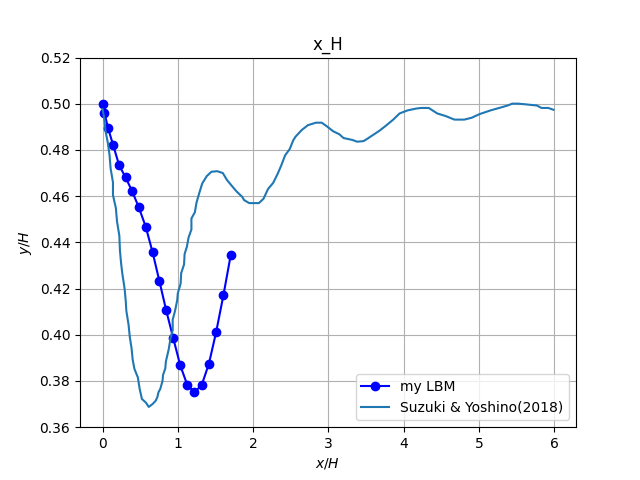
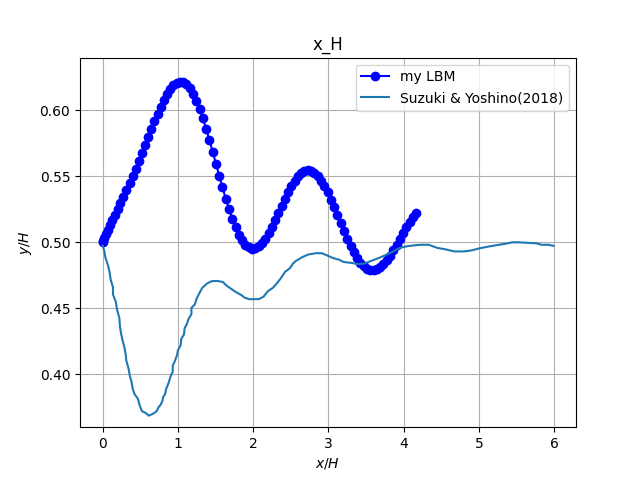
2025/09/08　一旦コミットプッシュ

diff --git a/all.hpp b/all.hpp
@@ -108,10 +108,10 @@ __global__ void SPM(Typ *items, Typ Radius, Typ *posB, Typ *f, Typ *ftmp, Typ *t
 template<typename Typ>
 __global__ void SPM_ellipse(Typ *items, Typ Rada, Typ Radb, Typ *quaS, Typ *posB, Typ *f, Typ *tau, Typ *posx, Typ *posy, Typ *posz, Typ *velx, Typ *vely, Typ *velz, Typ *velB, Typ *angleVB) ;
 template<typename Typ>
-__global__ void get_IBMGw2(Typ *items, int *lattice_id, int *neib, Typ *f, Typ *tau, Typ *posx, Typ *posy, Typ *posz, Typ *posw, Typ *posB, Typ *nBvec, Typ *velx, Typ *vely, Typ *velz, Typ *velw, Typ *Fx, Typ *Fy, Typ *Fz, Typ *Gw) ;
+__global__ void get_IBMGw2(Typ *items, int *lattice_id, int *neib, Typ *f, Typ *tau, Typ *posx, Typ *posy, Typ *posz, Typ *posw, Typ *posB, Typ *nBvec, Typ *velx, Typ *vely, Typ *velz, Typ *velw, Typ *Fx, Typ *Fy, Typ *Fz, Typ *Gw, Typ rhof) ;
 template<typename Typ>
 __global__ void update_velIBM(Typ *items, int *lattice_id, Typ *f, Typ *ftmp, Typ *pressure, Typ *tau, Typ *velx, Typ *vely, Typ *velz, Typ *velx_old, Typ *vely_old, Typ *velz_old, Typ *Fx, Typ *Fy, Typ *Fz) ;
-__global__ void update_IBbody(float *items, int IB_index, float *massB, float *densB, float *inertia, float *FB, float *posB, float *Torque, float *velB, float *quat, float *quaS, float *angleVB, float *posw, float *Gw, float *quatold) ;
+__global__ void update_IBbody(float *items, int IB_index, float *massB, float *densB, float *inertia, float *FB, float *posB, float *Torque, float *velB, float *quat, float *quaS, float *angleVB, float *posw, float *Gw, float *quatold, float rhof) ;
 __global__ void update_IBpoint(float *items, int IB_index, float *posB, float *velB, float *angleVB, float *quaS, float *posw, float *oposw, float *nBvec, float *onBvec, float *velw) ;
 __global__ void search_IBlattice(float *items, int IB_index, int *lattice_id, int *neib, float *posx, float *posy, float *posz, float *posw) ;
 

diff --git a/SphereFallSuzuki2018/make_VTK.py b/SphereFallSuzuki2018/make_VTK.py
@@ -95,7 +95,7 @@ def process_file(counter):
 def main():
     files = sorted(glob.glob('./data/Fakhari_LBM*.csv'))  
     total_count=len(files)
-    with Pool(cpu_count()) as pool:
+    with Pool(processes = int(cpu_count()/2)) as pool:
         # pool.map(process_file, range(0, 200, 10))
         pool.map(process_file, range(0,total_count,1))
         # pool.map(process_file, range(300,301))

diff --git a/EllipticalFall2/make_VTK.py b/EllipticalFall2/make_VTK.py
@@ -95,7 +95,7 @@ def process_file(counter):
 def main():
     files = sorted(glob.glob('./data/Fakhari_LBM*.csv'))  
     total_count=len(files)
-    with Pool(cpu_count()) as pool:
+    with Pool(processes = int(cpu_count()/2)) as pool:
         # pool.map(process_file, range(0, 200, 10))
         pool.map(process_file, range(0,total_count,1))
         # pool.map(process_file, range(20,21))

diff --git a/EllipticalFall2/x_H.py b/EllipticalFall2/x_H.py
@@ -27,7 +27,7 @@ x_H    = [] ; y_H    = []
 x_Href = [] ; y_Href = []
 read_csv(x_H,y_H,"x_H")
 read_csv(x_Href,y_Href,"Suzuki_1.1y")
-make_figure(x_H,y_H,x_Href,y_Href, "x_H", 0.36, 0.52) #
+make_figure(x_H,y_H,x_Href,y_Href, "x_H", 0.36, 0.64) #
 x_H    = [] ; y_H    = []
 x_Href = [] ; y_Href = []
 read_csv(x_H,y_H,"x_theta")

diff --git a/SphereFall3D/C_D.py b/SphereFall3D/C_D.py
@@ -15,6 +15,7 @@ plt.plot(C_time, C_D, marker='o', linestyle='-', color='b')
 plt.xlabel('Time (s)')
 plt.ylabel('C_D')
 plt.title('Drag Coefficient C_D over Time')
+plt.ylim(0,0.0016)
 plt.grid()
 # plt.xlim(300,350)
 # plt.ylim(1.5,1.55)

diff --git a/SphereFallSuzuki2018/x_H.py b/SphereFallSuzuki2018/x_H.py
@@ -21,6 +21,8 @@ plt.ylim(-0.14, 0.0)
 
 read_csv("x_H")
 read_csv("Sphere_SuzukiRe32") 
+read_csv("Sphere_SuzukiRe11") 
+read_csv("Sphere_SuzukiRe4.1") 
 read_csv("Sphere_SuzukiRe1.5") 
 plt.legend()
 
